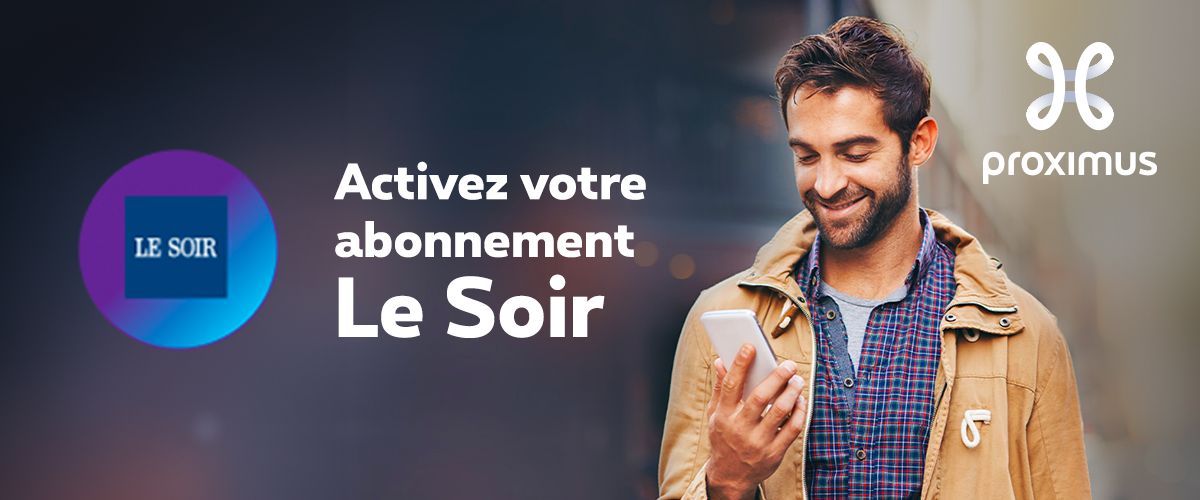
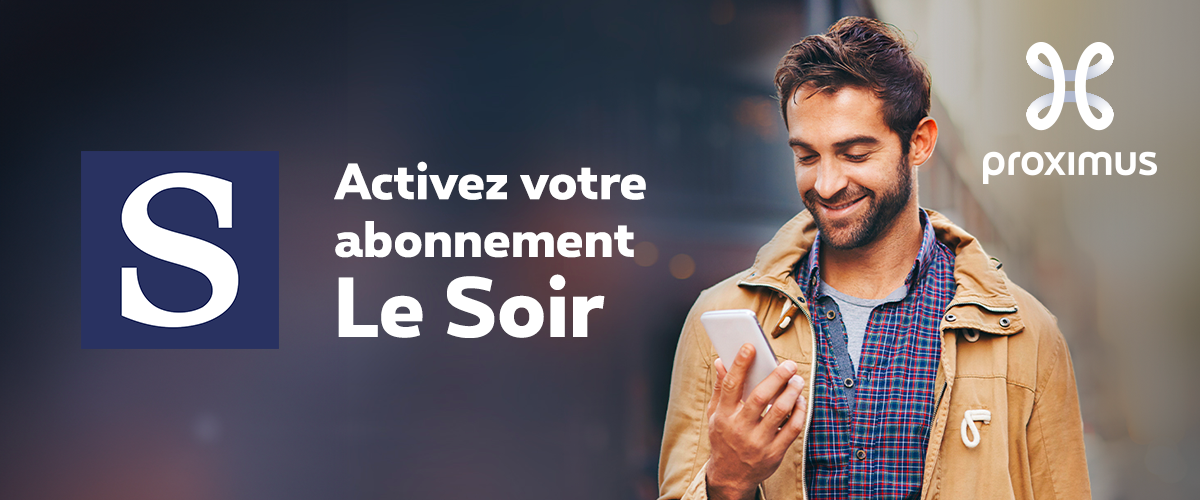
e-press update

Changed region(s): [[0.0617, 0.3, 0.2467, 0.72]]

diff --git a/PostOnboarding-communications_RES/POB0/3BLOCKS_ONBOARDING_POB0_nl.html b/PostOnboarding-communications_RES/POB0/3BLOCKS_ONBOARDING_POB0_nl.html
@@ -138,7 +138,7 @@
                         <td align="center" style="font-size:0px;padding:0;word-break:break-word;">
                           <div style="font-family:Verdana, sans-serif;font-size:14px;line-height:24px;text-align:center;color:#5C2D91;">
                             <strong style="text-align:center!important;font-size:17px;">
-                              Lorem Ipsum
+                              Ontdek de voordelen in je pack 
                             </strong>
                           </div>
                         </td>
@@ -547,7 +547,7 @@
                           <table cellpadding="0" cellspacing="0" width="100%" border="0" style="color:#000000;font-family:Verdana, sans-serif;font-size:13px;line-height:auto;table-layout:auto;width:100%;border:none;">
                             <tr>
                               <td align="center">
-                                <img name="VISUAL_BLOC_4_FR" src="images/block4_nl.png" alt="Volg de pers online dankzij je digitale abonnement op HLN" style="width: 100%; height: auto; border: 0; display: block; max-width:100%;">
+                                <img name="VISUAL_BLOC_4_NL" src="images/block5_hln.png" alt="Volg de pers online dankzij je digitale abonnement op HLN" style="width: 100%; height: auto; border: 0; display: block; max-width:100%;border-radius: 8px 8px 0 0;">
                               </td>
                             </tr>
                           </table>
@@ -598,7 +598,7 @@
                       <tr>
                         <td align="left" style="font-size:0px;padding:12px 25px 25px 0px;word-break:break-word;">
                           <div style="font-family:Verdana, sans-serif;font-size:14px;line-height:22px;text-align:left;color: #000000 ;">
-                            <a href="http://links.be.proximus.com/els/v2/NvXzhe-k4AfV/UTR6UGRjWkg4SFRvVG1WWWNTenpIUG41UmM2R2Z4blo3SjF2c3ZZVmx1MVdMOHNBWjgrb2Q5VE5USlN4TzFUVmpXVzloaWd1R2p2T1owUUJnSWxFMjVicVgxenZyamQ1b2RqYkZXN3RuYThzRDRlLzBzZ2tQUT09S0?v1=email&v4=information&v6=Onboarding&V7=POB_MVP1" target="_blank" name="CTA_BLOC4_FR" style="text-decoration: none">
+                            <a href="http://links.be.proximus.com/els/v2/NvXzhe-k4AfV/UTR6UGRjWkg4SFRvVG1WWWNTenpIUG41UmM2R2Z4blo3SjF2c3ZZVmx1MVdMOHNBWjgrb2Q5VE5USlN4TzFUVmpXVzloaWd1R2p2T1owUUJnSWxFMjVicVgxenZyamQ1b2RqYkZXN3RuYThzRDRlLzBzZ2tQUT09S0?v1=email&v4=information&v6=Onboarding&V7=POB_MVP1" target="_blank" name="CTA_BLOC4NL" style="text-decoration: none">
                               <strong style="color:#5C2D91">
                                 Activeer abonnement <img src="images/arrow.png" alt="icon" style="border:0;display:block;outline:none;text-decoration:none;height:auto;display:inline-block; vertical-align: middle">
                               </strong>

diff --git a/PostOnboarding-communications_RES/POB0/3BLOCKS_ONBOARDING_POB0_fr.html b/PostOnboarding-communications_RES/POB0/3BLOCKS_ONBOARDING_POB0_fr.html
@@ -138,7 +138,7 @@
                         <td align="center" style="font-size:0px;padding:0;word-break:break-word;">
                           <div style="font-family:Verdana, sans-serif;font-size:14px;line-height:24px;text-align:center;color:#5C2D91;">
                             <strong style="text-align:center!important;font-size:17px;">
-                              Lorem ipsum
+                              D&eacute;couvrez les avantages inclus dans votre pack
                             </strong>
                           </div>
                         </td>
@@ -548,7 +548,7 @@
                           <table cellpadding="0" cellspacing="0" width="100%" border="0" style="color:#000000;font-family:Verdana, sans-serif;font-size:13px;line-height:auto;table-layout:auto;width:100%;border:none;">
                             <tr>
                               <td align="center">
-                                <img name="VISUAL_BLOC_4_FR" src="images/block4.png" alt="Suivez l'actualit&eacute; en ligne gr&acirc;ce &agrave; votre abonnement au journal Le Soir." style="width: 100%; height: auto; border: 0; display: block; max-width:100%;">
+                                <img name="VISUAL_BLOC_4_FR" src="images/block5_lesoir.png" alt="Suivez l'actualit&eacute; en ligne gr&acirc;ce &agrave; votre abonnement au journal Le Soir." style="width: 100%; height: auto; border: 0; display: block; max-width:100%;border-radius: 8px 8px 0 0;">
                               </td>
                             </tr>
                           </table>

diff --git a/PostOnboarding-communications_RES/POB0/2BLOCKS_ONBOARDING_POB0_fr.html b/PostOnboarding-communications_RES/POB0/2BLOCKS_ONBOARDING_POB0_fr.html
@@ -138,7 +138,7 @@
                         <td align="center" style="font-size:0px;padding:0;word-break:break-word;">
                           <div style="font-family:Verdana, sans-serif;font-size:14px;line-height:24px;text-align:center;color:#5C2D91;">
                             <strong style="text-align:center!important;font-size:17px;">
-                              Lorem ipsum
+                              D&eacute;couvrez les avantages inclus dans votre pack
                             </strong>
                           </div>
                         </td>

diff --git a/PostOnboarding-communications_RES/POB0/4BLOCKS_ONBOARDING_POB0_fr.html b/PostOnboarding-communications_RES/POB0/4BLOCKS_ONBOARDING_POB0_fr.html
@@ -138,7 +138,7 @@
                         <td align="center" style="font-size:0px;padding:0;word-break:break-word;">
                           <div style="font-family:Verdana, sans-serif;font-size:14px;line-height:24px;text-align:center;color:#5C2D91;">
                             <strong style="text-align:center!important;font-size:17px;">
-                              Lorem ipsum
+                              D&eacute;couvrez les avantages inclus dans votre pack
                             </strong>
                           </div>
                         </td>

diff --git a/PostOnboarding-communications_RES/POB0/2BLOCKS_ONBOARDING_POB0_nl.html b/PostOnboarding-communications_RES/POB0/2BLOCKS_ONBOARDING_POB0_nl.html
@@ -138,7 +138,7 @@
                         <td align="center" style="font-size:0px;padding:0;word-break:break-word;">
                           <div style="font-family:Verdana, sans-serif;font-size:14px;line-height:24px;text-align:center;color:#5C2D91;">
                             <strong style="text-align:center!important;font-size:17px;">
-                              Lorem Ipsum
+                              Ontdek de voordelen in je pack 
                             </strong>
                           </div>
                         </td>

diff --git a/PostOnboarding-communications_RES/POB0/4BLOCKS_ONBOARDING_POB0_nl.html b/PostOnboarding-communications_RES/POB0/4BLOCKS_ONBOARDING_POB0_nl.html
@@ -138,7 +138,7 @@
                         <td align="center" style="font-size:0px;padding:0;word-break:break-word;">
                           <div style="font-family:Verdana, sans-serif;font-size:14px;line-height:24px;text-align:center;color:#5C2D91;">
                             <strong style="text-align:center!important;font-size:17px;">
-                              Lorem Ipsum
+                              Ontdek de voordelen in je pack 
                             </strong>
                           </div>
                         </td>
